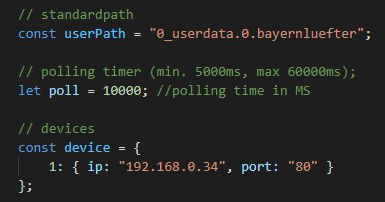
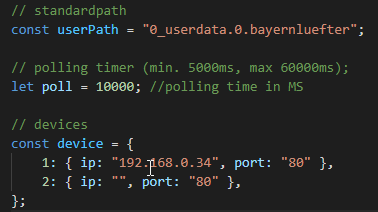
update

diff --git a/bayernluft.js b/bayernluft.js
@@ -7,7 +7,7 @@ let poll = 10000; //polling time in MS
 
 // devices
 const device = {
-    1: { ip: "192.168.0.34", port: "80" }
+    1: { ip: "192.168.0.34", port: "80" },
 };
 
 // Finger weg !

diff --git a/README.md b/README.md
@@ -30,8 +30,9 @@ Ein neues JS Script in iobroker erstellen und das Script aus "script-bwm-script.
 
 Folgendes muss eingetragen werden:
 1. Standardpfad: Der Pfad unter welchem das Gerät erscheinen soll
-2. Ip und Port: Standardport ist die 80
-3. Intervall (polling): In welchem Intervall sollen die Daten geholt werden (5-60 Sekundne möglich, eingabe allerdings in Millisekunden)
+2. Intervall (polling): In welchem Intervall sollen die Daten geholt werden (5-60 Sekundne möglich, eingabe allerdings in Millisekunden)
+3. Ip und Port: Standardport ist die 80
+
 
 ![pic5.png](/admin/pic5.png)
 
